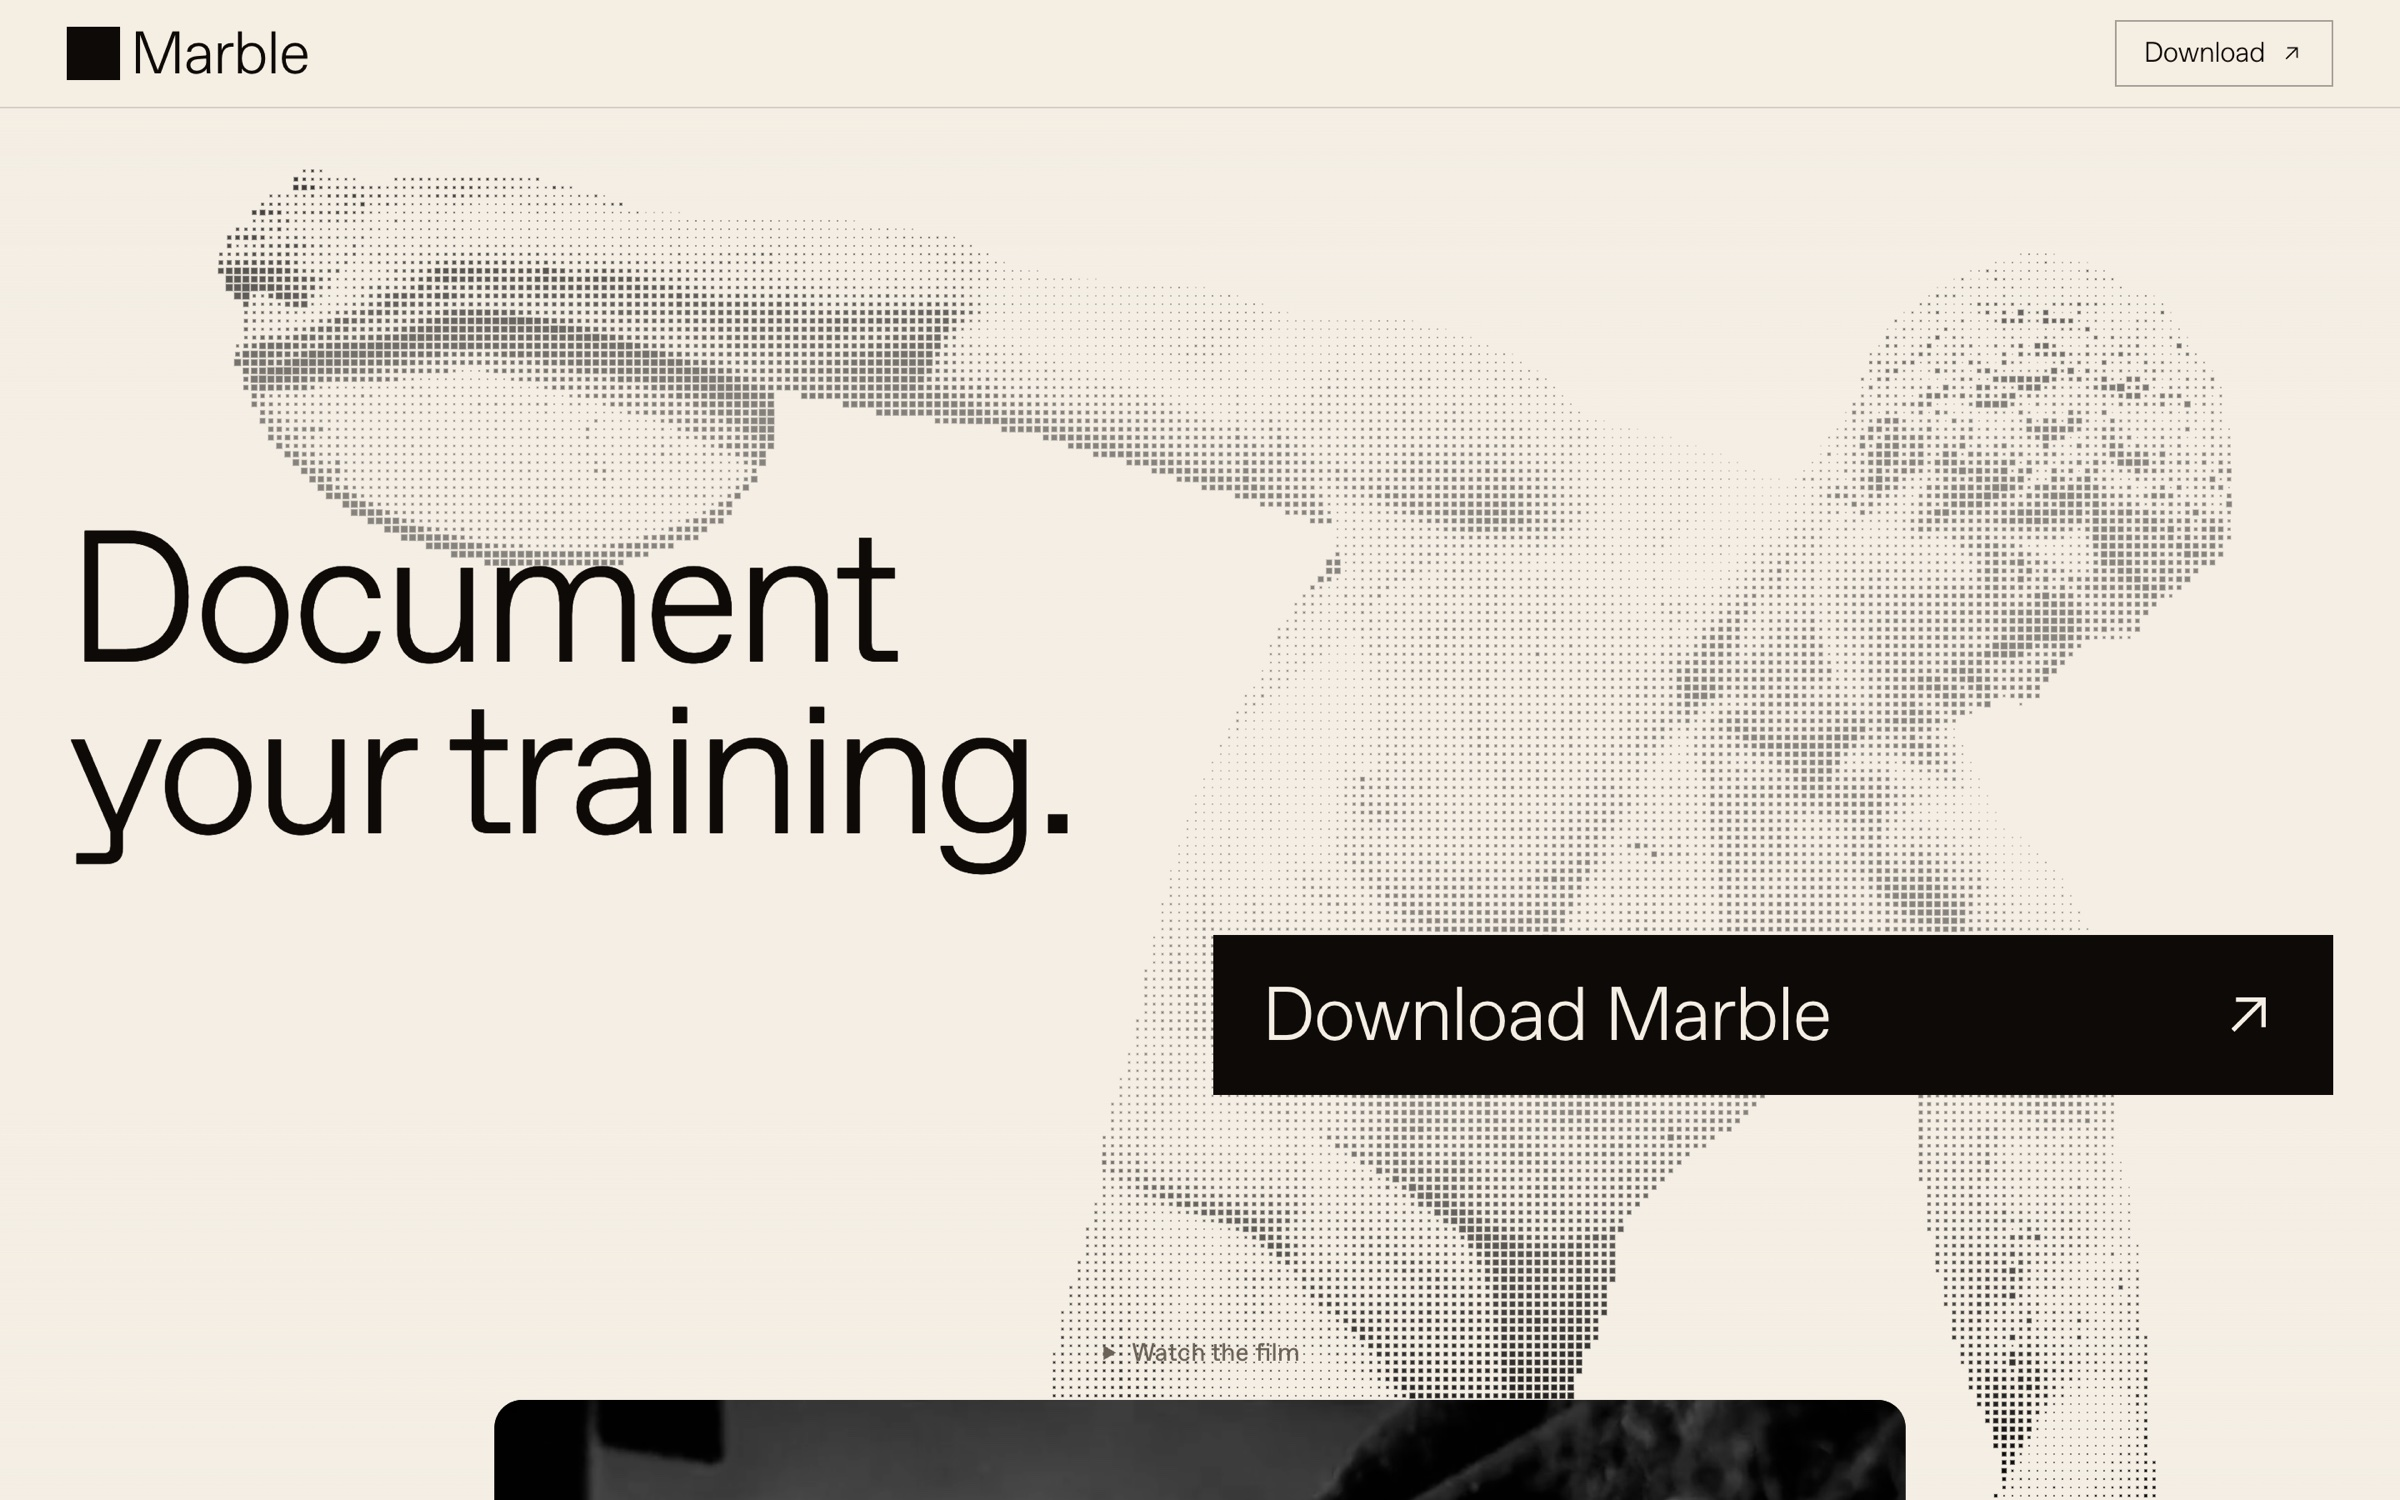
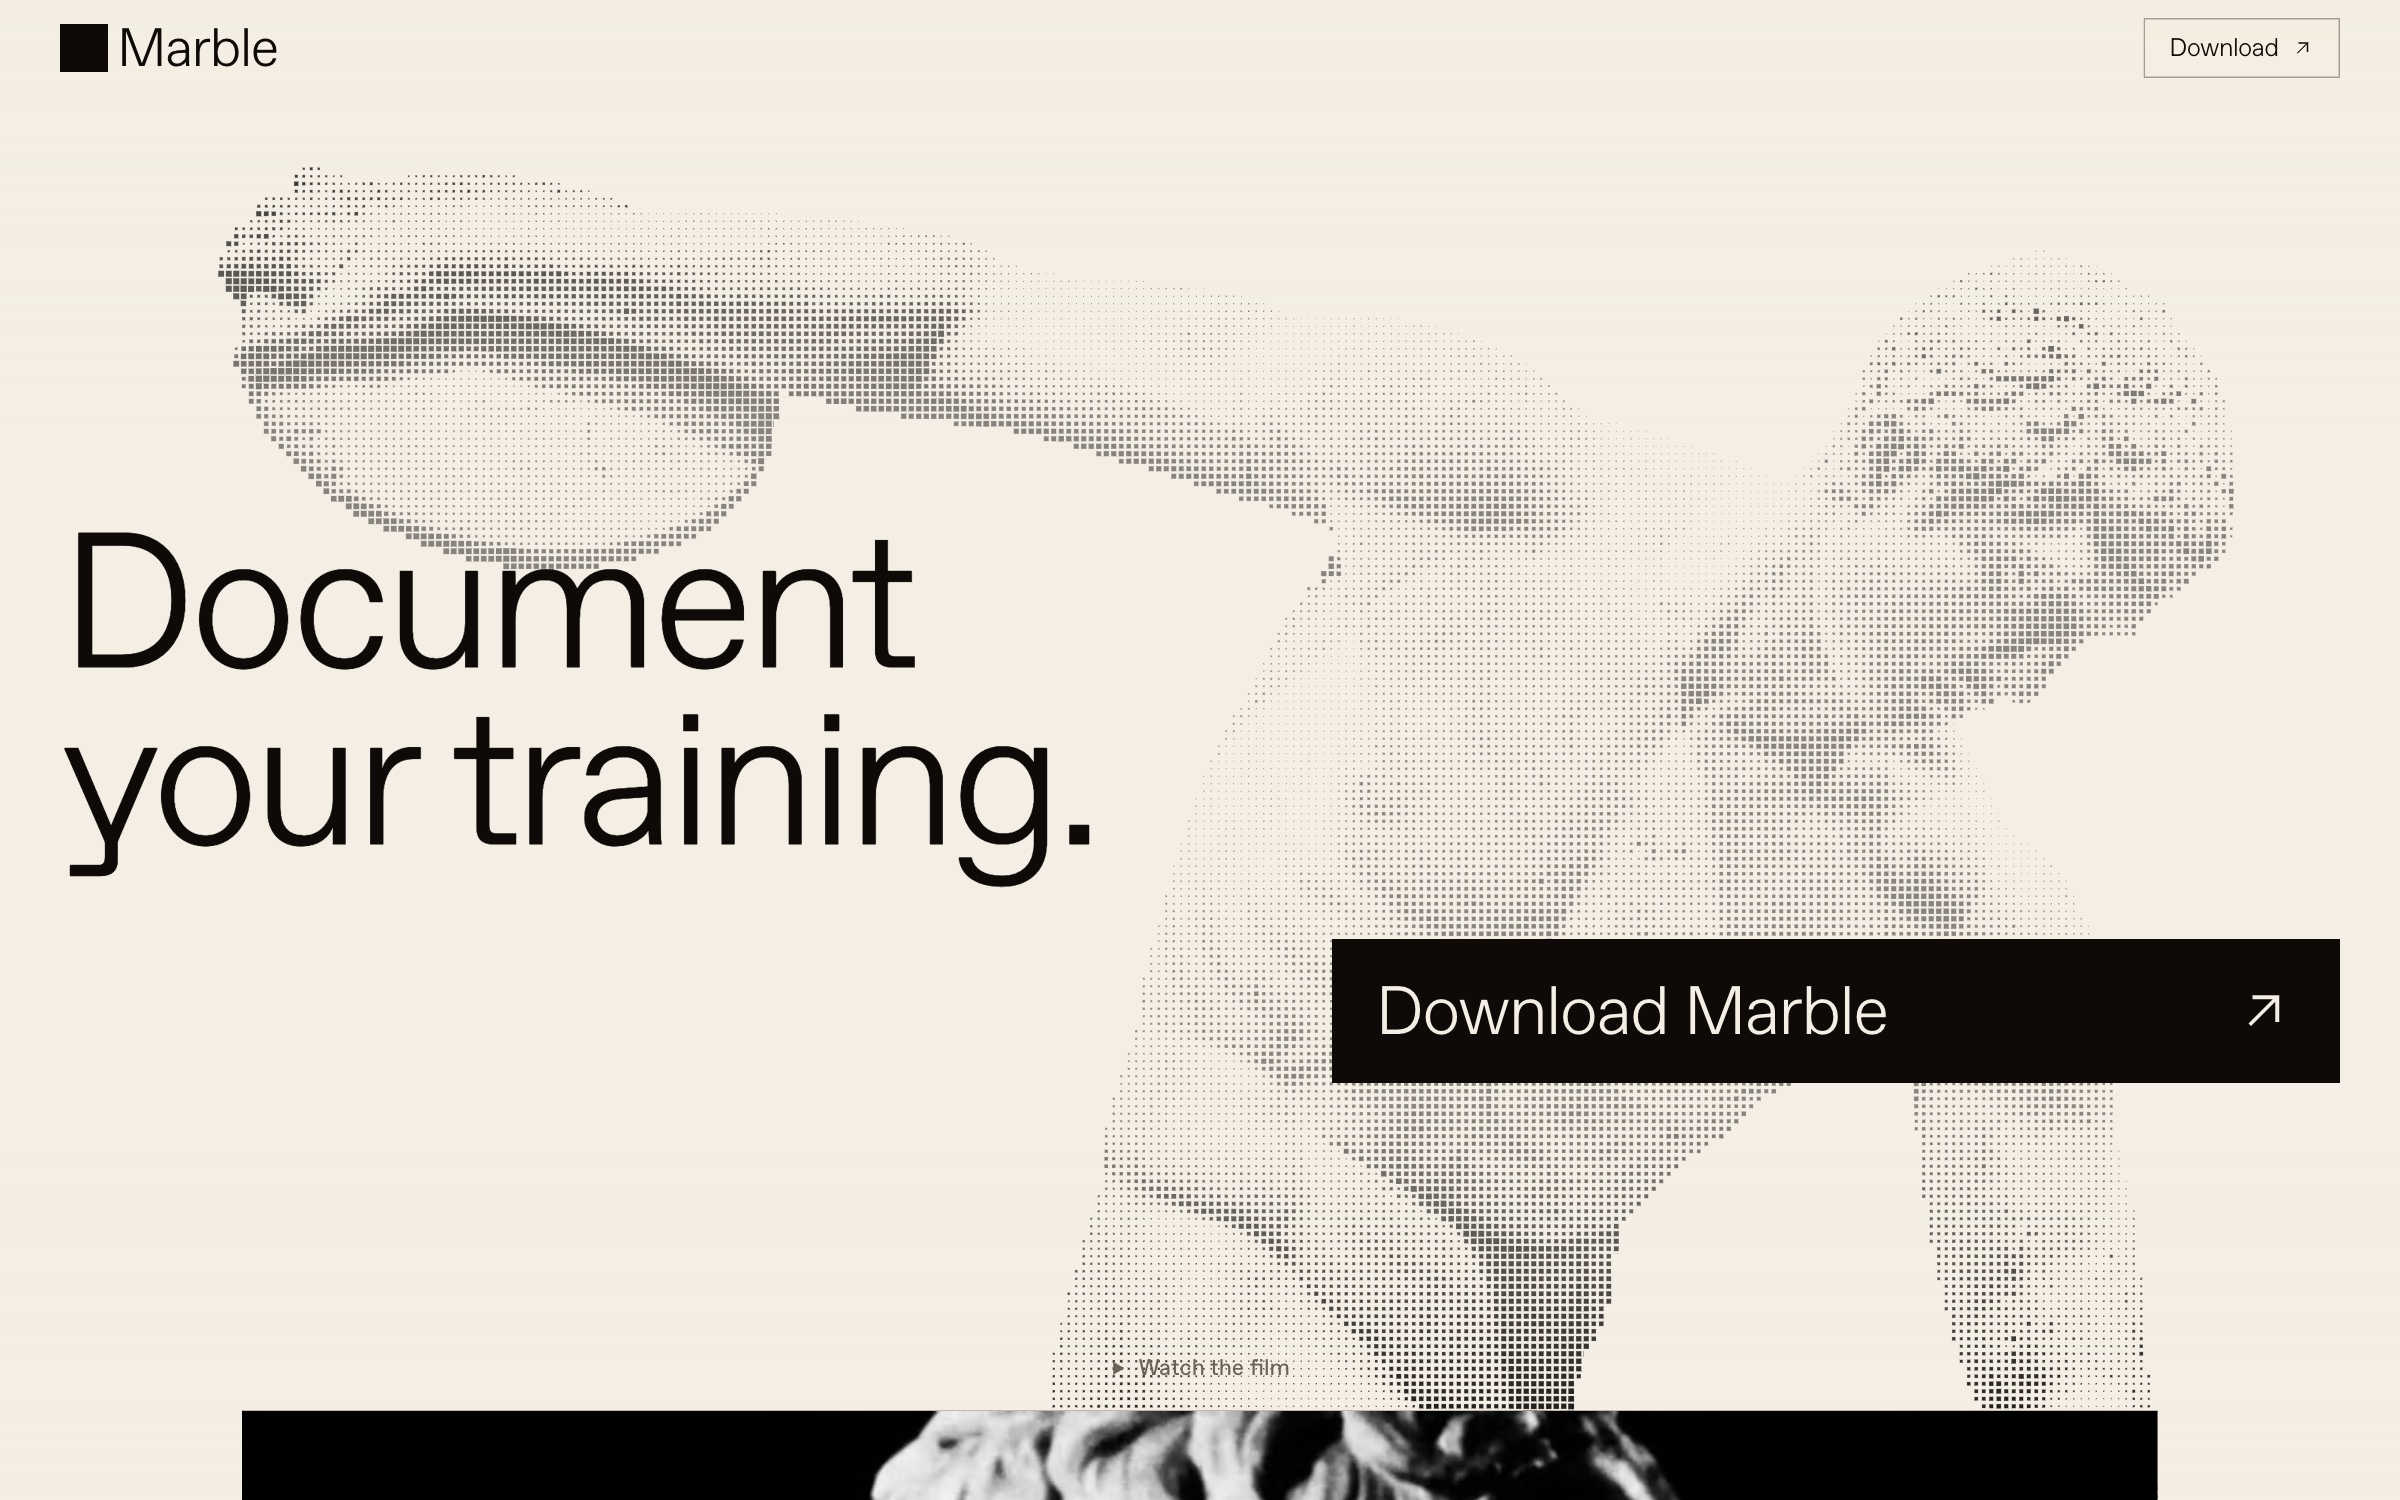
Marble: three fresh marblejournal.com captures in The name

diff --git a/public/work/marble/index.md b/public/work/marble/index.md
@@ -50,7 +50,7 @@ I often work this way: I need to see the feeling before I can build the thing, u
 
 If Marble existed hundreds of years ago, it would have been a bound notebook. Right now it's an iPhone app, because people carry their phones everywhere, including the gym, and if the form factor of software changes, it would change with it. That dialogue between something timeless and the moment we're in is why the website renders ancient statues as digitized halftone grids.
 
-[![marblejournal.com](site-01-hero.jpg)](https://marblejournal.com)
+[![marblejournal.com](site-01-hero.jpg)](https://marblejournal.com) ![](site-02.jpg) ![](site-03.jpg)
 
 ## The Venn diagram | Audience
 
